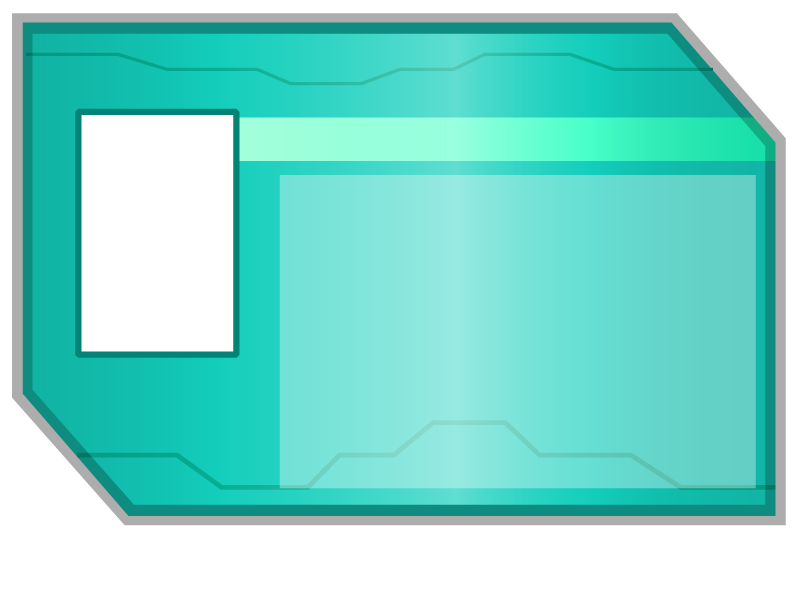
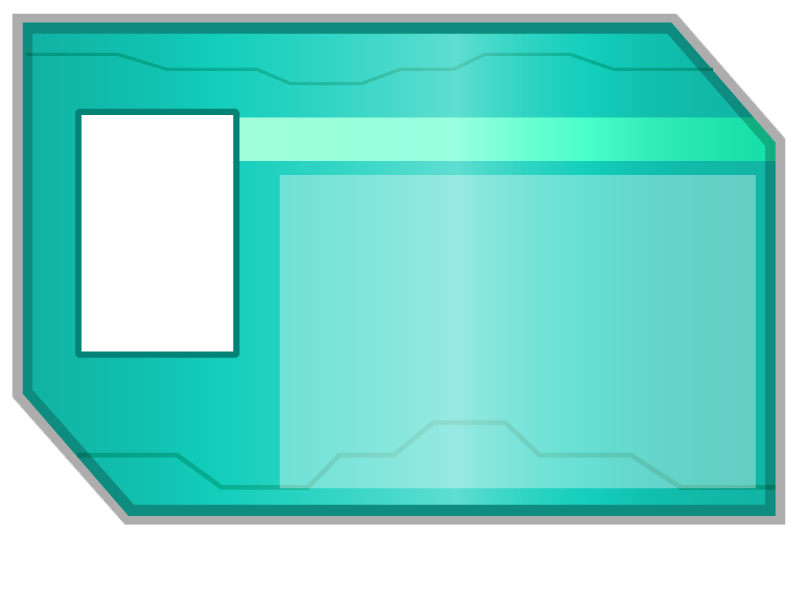
carteira dos alunos está funcionando e foi tornada transparente

diff --git a/carteira.css b/carteira.css
@@ -8,6 +8,12 @@ body { margin: 0; padding: 0; }
 	background-repeat: no-repeat;
 	width: 800px;
 	height: 600px;
+
+	position: relative;
+	top:50%;
+	left:50%;
+	margin-left: -400px;
+	margin-top: -300px;
 }
 #carteira-usuario h2
 {
@@ -44,14 +50,19 @@ body { margin: 0; padding: 0; }
 #imagem-carteira 
 {
 	position: absolute;
-	top: 160px;
-	left: 154px;
+	top: 115px;
+	left: 81px;
 }
 #imagem-carteira img
 {
-	width: 136px;
-	height: 212px;
+	width: 153px;
+	height: 237px;
 	position: absolute;
 	top: 0;
 	left: 0;
+}
+#trocaFoto{
+	position: relative;
+	top:370px;
+	left: 98px;
 }

diff --git a/funcionalidades/administracao/listaUsuariosTurma.php b/funcionalidades/administracao/listaUsuariosTurma.php
@@ -132,7 +132,7 @@ if (!$user->pertenceTurma($turma)) {
 				</a>
 			</div>
 			<div id="lightbox">
-				<div id="carteira-usuario" style="background-color:<?=$user->getCorLuva()?>">
+				<div id="carteira-usuario">
 					<h2>Fulaninho</h2>
 					<div id="descricao-usuario">
 						<ul>
@@ -144,10 +144,10 @@ if (!$user->pertenceTurma($turma)) {
 						</ul>
 					</div>
 					<div id="imagem-carteira">
-						<img id="img-cart-1" src="fadeout1.png" alt="Imagem do avatar do usu&aacute;rio" border="0" />
-						<img id="img-cart-2" src="fadeout2.jpg" alt="Imagem real do usu&aacute;rio" border="0" />
+						<img id="img-cart-1" src="http://placekitten.com/153/237" alt="Imagem do avatar do usu&aacute;rio" border="0" />
+						<img id="img-cart-2" src="http://placekitten.com/153/236" alt="Imagem real do usu&aacute;rio" border="0" />
 					</div>
-					<button onclick="clearInterval(idIntervaloFoto); idIntervaloFoto = window.setInterval(trocaFoto, 10);">VAI!</button>
+					<button id="trocaFoto" onclick="clearInterval(idIntervaloFoto); idIntervaloFoto = window.setInterval(trocaFoto, 10);">Trocar Foto</button>
 				</div>
 			</div>
 
@@ -199,6 +199,27 @@ if (!$user->pertenceTurma($turma)) {
 			$('#cont_img').css('height','170px');
 		}
 	}
+	/////////////////////////////////////////
+	// Código relacionado à troca de fotos da carteira
+	function trocaFoto(){
+		real.style.opacity = 1.0 - opacidade;
+		avatar.style.opacity = opacidade;
+
+		if(opacidade < 0){
+			window.clearInterval(idIntervaloFoto);
+			temp = real;
+			real = avatar;
+			avatar = temp;
+			opacidade = 1.0;
+		}else{
+			opacidade -= 0.01;
+		}
+	}
+	var idIntervaloFoto = 0;
+	var real = document.getElementById("img-cart-1");
+	var avatar = document.getElementById("img-cart-2");
+	var opacidade = 1.0;
+	///////////////////////////////////////////
 
 
 	var listaUsuarios = [
